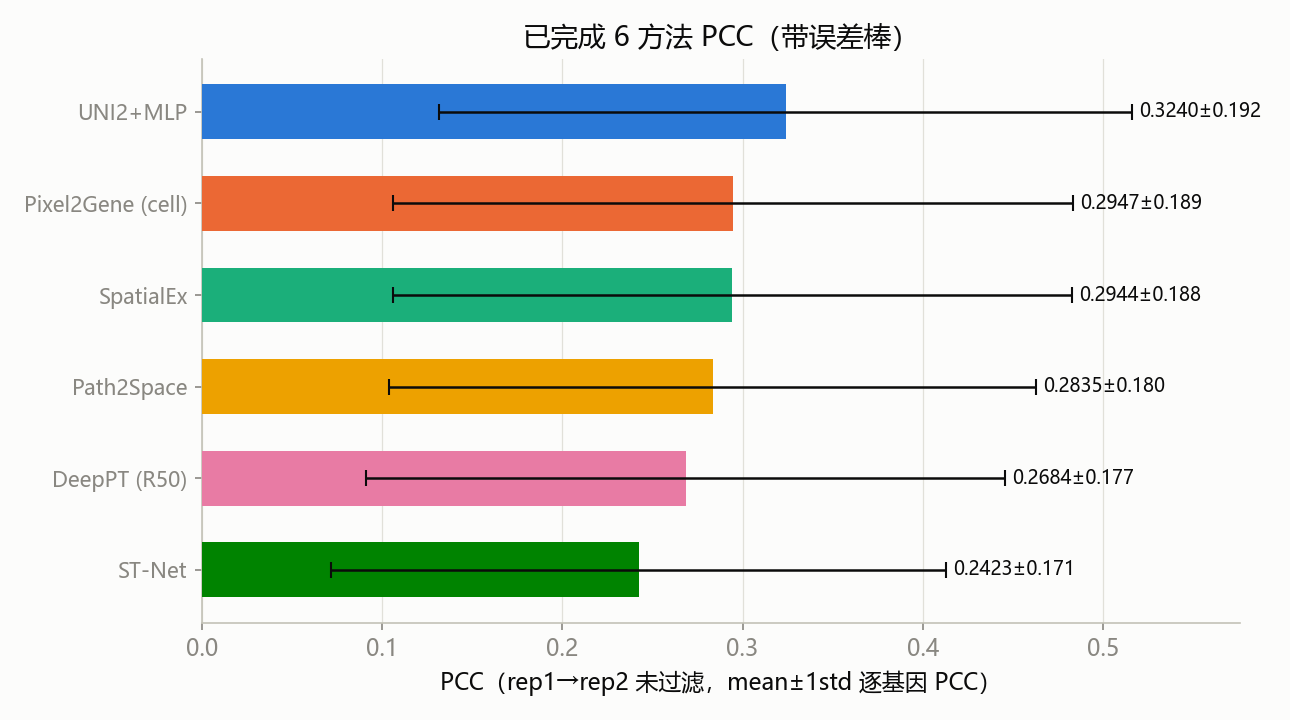
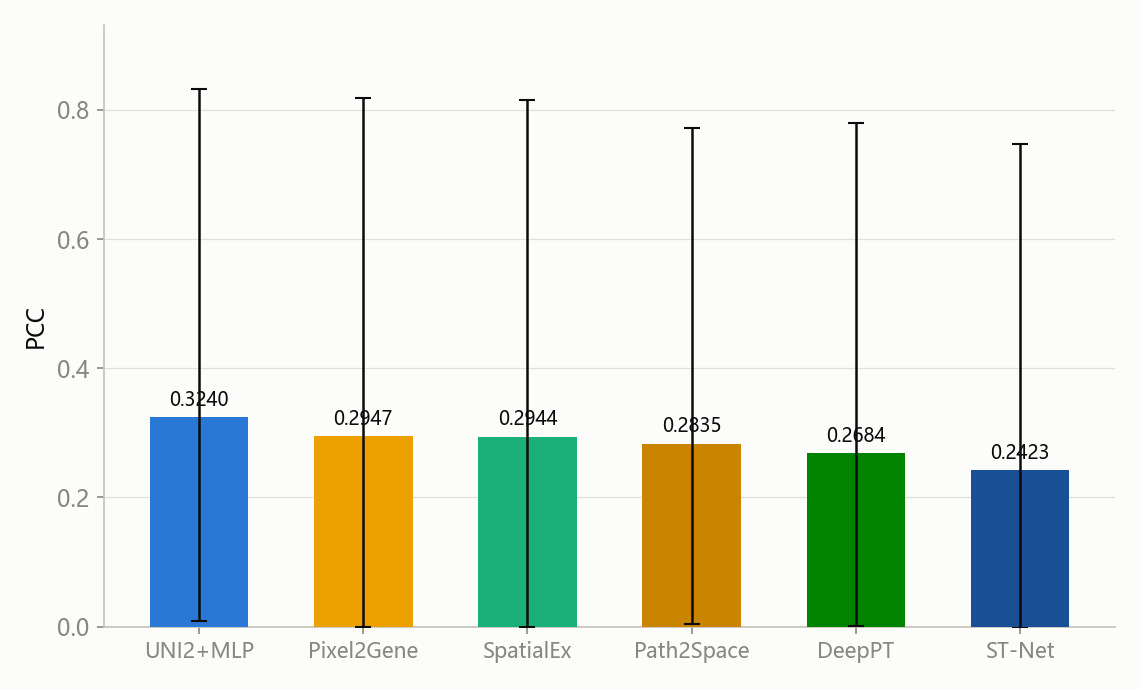
PCC柱状图改为纵向+黄绿蓝配色+误差棒改min/max逐基因PCC, 简化方法名

diff --git a/scripts/plot_he_results_partial.py b/scripts/plot_he_results_partial.py
@@ -38,15 +38,24 @@ plt.rcParams.update({
     "axes.spines.top": False, "axes.spines.right": False, "font.family": "sans-serif",
 })
 
-# ---- 方法定义（固定颜色，跨图一致） ----
+# ---- 方法定义（Top-k 曲线用 dataviz 槽位色；柱状图单独用黄绿蓝配色） ----
 METHODS = [
     ("UNI2+MLP", "bench_uni2_mlp_unf", BLUE),
-    ("Pixel2Gene (cell)", "bench_pixel2gene_cell_unf", ORANGE),
+    ("Pixel2Gene", "bench_pixel2gene_cell_unf", ORANGE),
     ("SpatialEx", "bench_spatialex_unf", AQUA),
     ("Path2Space", "bench_path2space_unf", YELLOW),
-    ("DeepPT (R50)", "bench_deeppt_resnet50_unf", MAGENTA),
+    ("DeepPT", "bench_deeppt_resnet50_unf", MAGENTA),
     ("ST-Net", "bench_st_net_unf", GREEN),
 ]
+# PCC 柱状图：黄、绿、蓝为主（2 黄 + 2 绿 + 2 蓝）
+BAR_COLORS = {
+    "UNI2+MLP": "#2a78d6",     # 蓝
+    "Pixel2Gene": "#eda100",   # 黄
+    "SpatialEx": "#1baf7a",    # 青绿
+    "Path2Space": "#c98500",   # 暗黄
+    "DeepPT": "#008300",       # 绿
+    "ST-Net": "#184f95",       # 深蓝
+}
 OUT_ROOT = "outputs"
 
 
@@ -80,35 +89,36 @@ data = {name: load_method(d) for name, d, _ in METHODS}
 for name in data:
     data[name]["name"] = name
 
-# ================= 1. PCC 带误差棒柱状图 =================
+# ================= 1. PCC 带误差棒柱状图（纵向，误差棒=min/max 逐基因 PCC） =================
 names = [name for name, _, _ in METHODS]
 means = [data[n]["pccs"].mean() for n in names]
-stds = [data[n]["pccs"].std() for n in names]
+pmin = [data[n]["pccs"].min() for n in names]
+pmax = [data[n]["pccs"].max() for n in names]
 order = np.argsort(-np.array(means))  # 按 PCC 降序
 names_s = [names[i] for i in order]
 means_s = [means[i] for i in order]
-stds_s = [stds[i] for i in order]
-name_to_color = {name: c for name, _, c in METHODS}
-cols = [name_to_color[n] for n in names_s]  # 固定颜色随实体
+lowers = [means_s[i] - pmin[order[i]] for i in range(len(names_s))]  # mean - min
+uppers = [pmax[order[i]] - means_s[i] for i in range(len(names_s))]  # max - mean
+yerr = np.array([lowers, uppers])
+cols = [BAR_COLORS[n] for n in names_s]
 
-fig, ax = plt.subplots(figsize=(8.6, 4.8))
-bars = ax.barh(range(len(names_s)), means_s, xerr=stds_s, color=cols, height=0.6,
-               error_kw=dict(ecolor=INK, lw=1.2, capsize=4), zorder=3)
-for i, (m, s) in enumerate(zip(means_s, stds_s)):
-    ax.text(m + s + 0.004, i, f"{m:.4f}±{s:.3f}", va="center", fontsize=9, color=INK)
-ax.set_yticks(range(len(names_s)))
-ax.set_yticklabels(names_s, fontsize=10)
-ax.invert_yaxis()
-ax.set_xlabel("PCC（rep1→rep2 未过滤，mean±1std 逐基因 PCC）")
-ax.set_title("已完成 6 方法 PCC（带误差棒）")
-ax.set_xlim(0, max(m + s for m, s in zip(means_s, stds_s)) + 0.06)
-ax.grid(axis="y", visible=False)
+fig, ax = plt.subplots(figsize=(7.6, 4.6))
+x = np.arange(len(names_s))
+ax.bar(x, means_s, yerr=yerr, color=cols, width=0.6,
+       error_kw=dict(ecolor=INK, lw=1.2, capsize=4), zorder=3)
+for xi, m in zip(x, means_s):
+    ax.text(xi, m + 0.01, f"{m:.4f}", ha="center", va="bottom", fontsize=9, color=INK)
+ax.set_xticks(x)
+ax.set_xticklabels(names_s, fontsize=10)
+ax.set_ylabel("PCC")
+ax.set_ylim(0, max(pmax) + 0.1)
+ax.grid(axis="x", visible=False)
 fig.tight_layout()
 fig.savefig("benchmark_pcc_bar_unf_partial.png", dpi=150)
 plt.close(fig)
 print("已生成 benchmark_pcc_bar_unf_partial.png")
-for n, m, s in zip(names_s, means_s, stds_s):
-    print(f"  {n:18s} {m:.4f} ± {s:.4f}")
+for n, m in zip(names_s, means_s):
+    print(f"  {n:12s} {m:.4f}（min {pmin[order[names_s.index(n)]]:.3f} ~ max {pmax[order[names_s.index(n)]]:.3f}）")
 
 # ================= 2. Top-k 准确率连续曲线 =================
 fig, ax = plt.subplots(figsize=(9.5, 5.2))
